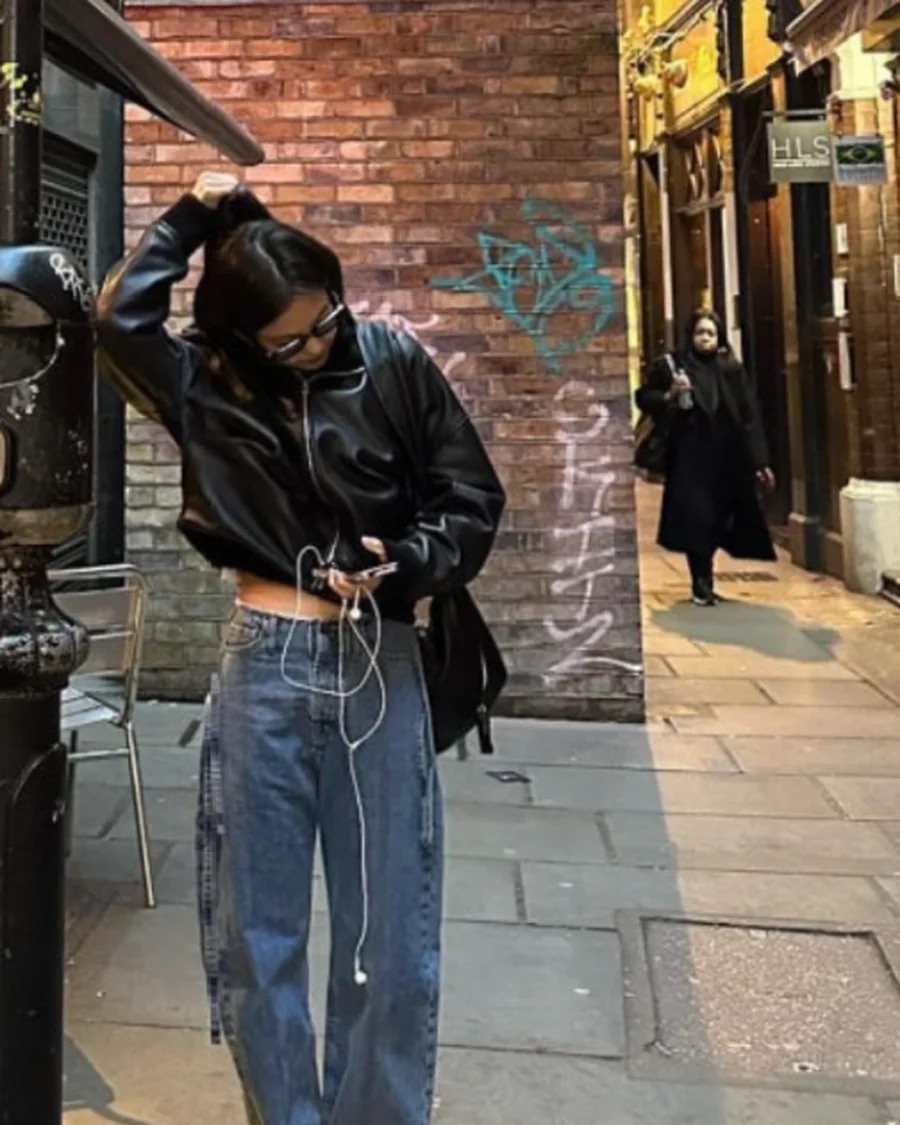
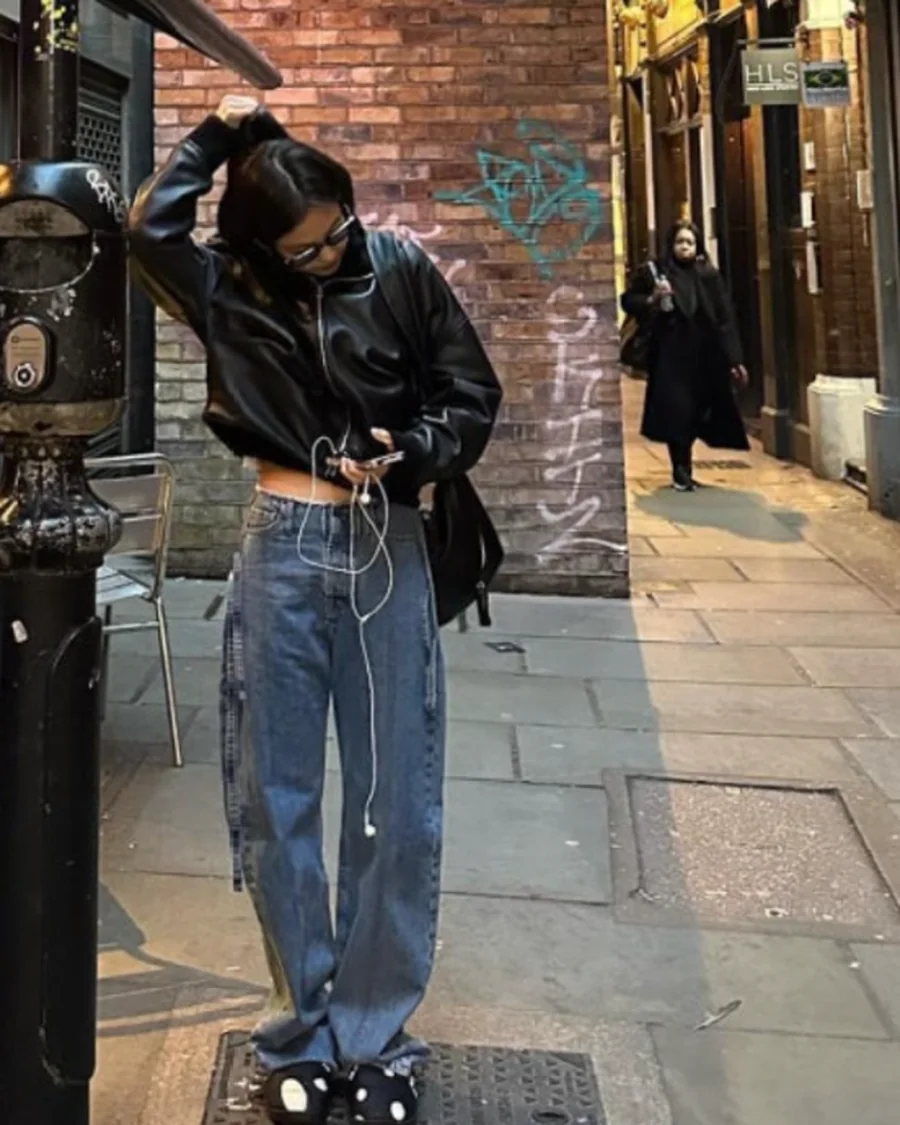
polish: 모바일 정렬·필터 여백 정리, 제니 이미지 크롭(신발 포함) 보정

diff --git a/data/looks.js b/data/looks.js
@@ -10,8 +10,8 @@
 window.SFP_LOOKS = [
   {
     id: "jiwon-aloro-velvet",
-    image: "assets/looks/jiwon-aloro-velvet.webp?v=20261120e",
-    imageJpg: "assets/looks/jiwon-aloro-velvet.jpg?v=20261120e",
+    image: "assets/looks/jiwon-aloro-velvet.webp?v=20261120f",
+    imageJpg: "assets/looks/jiwon-aloro-velvet.jpg?v=20261120f",
     photo: {label: "PAP 매거진", kind: "photo", what: "공항 출국 현장 촬영", url: "https://www.pap-magazine.com/article/kim-ji-won-duvetica-airport-fashion-japan-fan-meeting"},
     imageAlt: "인천공항 출국길, 검정 벨벳 미드 다운 재킷에 화이트 니트와 블랙 쇼츠, 니삭스 차림으로 걷는 김지원",
     celeb: "김지원",
@@ -58,8 +58,8 @@ window.SFP_LOOKS = [
   },
   {
     id: "jiwon-teramo-backpack",
-    image: "assets/looks/jiwon-teramo-backpack.webp?v=20261120e",
-    imageJpg: "assets/looks/jiwon-teramo-backpack.jpg?v=20261120e",
+    image: "assets/looks/jiwon-teramo-backpack.webp?v=20261120f",
+    imageJpg: "assets/looks/jiwon-teramo-backpack.jpg?v=20261120f",
     photo: {label: "PAP 매거진", kind: "photo", what: "공항 출국 현장 촬영", url: "https://www.pap-magazine.com/article/kim-ji-won-duvetica-airport-fashion-japan-fan-meeting"},
     imageAlt: "인천공항 출국길, 검정 벨벳 패딩에 퀼팅 벨벳 백팩을 메고 걷는 김지원",
     celeb: "김지원",
@@ -105,8 +105,8 @@ window.SFP_LOOKS = [
   },
   {
     id: "jennie-subu-dot",
-    image: "assets/looks/jennie-subu-dot.webp?v=20261120e",
-    imageJpg: "assets/looks/jennie-subu-dot.jpg?v=20261120e",
+    image: "assets/looks/jennie-subu-dot.webp?v=20261120f",
+    imageJpg: "assets/looks/jennie-subu-dot.jpg?v=20261120f",
     photo: {label: "제니 인스타그램", kind: "photo", what: "인스타그램 공개 사진", url: "https://www.instagram.com/jennierubyjane/"},
     imageAlt: "런던 거리에서 레더 보머 재킷과 로즈 데님, 도트 패턴 수부 패딩 슬리퍼를 신은 제니",
     celeb: "제니",
@@ -153,8 +153,8 @@ window.SFP_LOOKS = [
   },
   {
     id: "wooyoung-tomboy-check",
-    image: "assets/looks/wooyoung-tomboy-check.webp?v=20261120e",
-    imageJpg: "assets/looks/wooyoung-tomboy-check.jpg?v=20261120e",
+    image: "assets/looks/wooyoung-tomboy-check.webp?v=20261120f",
+    imageJpg: "assets/looks/wooyoung-tomboy-check.jpg?v=20261120f",
     photo: {label: "디스패치", kind: "photo", what: "공항 출국 현장 촬영", url: "https://www.dispatch.co.kr/2342671"},
     imageAlt: "김포공항 출국길, 핑크 체크 셔츠에 데님과 레드 캡, 마스크 차림의 우영",
     celeb: "우영",
@@ -201,8 +201,8 @@ window.SFP_LOOKS = [
   },
   {
     id: "yoonseok-kume-knit",
-    image: "assets/looks/yoonseok-kume-knit.webp?v=20261120e",
-    imageJpg: "assets/looks/yoonseok-kume-knit.jpg?v=20261120e",
+    image: "assets/looks/yoonseok-kume-knit.webp?v=20261120f",
+    imageJpg: "assets/looks/yoonseok-kume-knit.jpg?v=20261120f",
     photo: {label: "SBS 틈만나면", kind: "photo", what: "64회 방송 화면", url: "https://programs.sbs.co.kr/enter/teum/vod/82255/22000639190"},
     imageAlt: "틈만나면, 시즌5 64회, 멜란지 그레이 컬러블록 넥라인 니트를 입고 이야기하는 유연석",
     celeb: "유연석",
@@ -247,8 +247,8 @@ window.SFP_LOOKS = [
   },
   {
     id: "seungho-diesel-biker",
-    image: "assets/looks/seungho-diesel-biker.webp?v=20261120e",
-    imageJpg: "assets/looks/seungho-diesel-biker.jpg?v=20261120e",
+    image: "assets/looks/seungho-diesel-biker.webp?v=20261120f",
+    imageJpg: "assets/looks/seungho-diesel-biker.jpg?v=20261120f",
     photo: {label: "SBS 틈만나면", kind: "photo", what: "62회 방송 화면", url: "https://programs.sbs.co.kr/enter/teum/clip/82063/OC482566177"},
     imageAlt: "틈만나면, 시즌5 62회, 베이지와 그린 컬러블록 레더 재킷을 입고 웃는 신승호",
     celeb: "신승호",
@@ -294,8 +294,8 @@ window.SFP_LOOKS = [
   },
   {
     id: "doyeon-atelier-yak",
-    image: "assets/looks/doyeon-atelier-yak.webp?v=20261120e",
-    imageJpg: "assets/looks/doyeon-atelier-yak.jpg?v=20261120e",
+    image: "assets/looks/doyeon-atelier-yak.webp?v=20261120f",
+    imageJpg: "assets/looks/doyeon-atelier-yak.jpg?v=20261120f",
     photo: {label: "아틀리에 나인 룩북", kind: "product", what: "브랜드 공식 룩북", url: "https://nain.co.kr/"},
     imageAlt: "올리브 컬러 야크 블렌드 머플러 니트를 입은 아틀리에 나인 공식 룩북 컷",
     celeb: "장도연",
@@ -342,8 +342,8 @@ window.SFP_LOOKS = [
   },
   {
     id: "yeeun-mahagrid-zip",
-    image: "assets/looks/yeeun-mahagrid-zip.webp?v=20261120e",
-    imageJpg: "assets/looks/yeeun-mahagrid-zip.jpg?v=20261120e",
+    image: "assets/looks/yeeun-mahagrid-zip.webp?v=20261120f",
+    imageJpg: "assets/looks/yeeun-mahagrid-zip.jpg?v=20261120f",
     photo: {label: "SBS 런닝맨", kind: "photo", what: "825회 방송 화면", url: "https://programs.sbs.co.kr/enter/runningman"},
     imageAlt: "런닝맨 825회, 흰 스티치 디테일의 그레이 크롭 니트 집업을 입고 웃는 지예은",
     celeb: "지예은",
@@ -390,8 +390,8 @@ window.SFP_LOOKS = [
   },
   {
     id: "sechan-wakei-pants",
-    image: "assets/looks/sechan-wakei-pants.webp?v=20261120e",
-    imageJpg: "assets/looks/sechan-wakei-pants.jpg?v=20261120e",
+    image: "assets/looks/sechan-wakei-pants.webp?v=20261120f",
+    imageJpg: "assets/looks/sechan-wakei-pants.jpg?v=20261120f",
     photo: {label: "와이케이 공식", kind: "product", what: "브랜드 제품 컷", url: "https://www.musinsa.com/search/musinsa/integration?q=%EC%99%80%EC%9D%B4%EC%BC%80%EC%9D%B4%20%EC%8A%A4%EC%BF%BC%ED%8A%B8%ED%8C%AC%EC%B8%A0"},
     imageAlt: "네이비 바탕에 흰 별 자수가 들어간 와이케이 체크 스타 자수 스웨트팬츠 제품 컷",
     celeb: "양세찬",
@@ -436,8 +436,8 @@ window.SFP_LOOKS = [
   },
   {
     id: "haha-adidas-hyperboost",
-    image: "assets/looks/haha-adidas-hyperboost.webp?v=20261120e",
-    imageJpg: "assets/looks/haha-adidas-hyperboost.jpg?v=20261120e",
+    image: "assets/looks/haha-adidas-hyperboost.webp?v=20261120f",
+    imageJpg: "assets/looks/haha-adidas-hyperboost.jpg?v=20261120f",
     photo: {label: "아디다스 공식", kind: "product", what: "브랜드 제품 컷", url: "https://www.adidas.co.kr/%ED%95%98%EC%9D%B4%ED%8D%BC%EB%B6%80%EC%8A%A4%ED%8A%B8-ephr-lt/KZ8509.html"},
     imageAlt: "검정 니트 어퍼에 흰 삼선이 들어간 아디다스 하이퍼부스트 EPHR LT 제품 컷",
     celeb: "하하",

diff --git a/index.html b/index.html
@@ -25,8 +25,8 @@
 <link rel="icon" href="assets/favicon.svg" type="image/svg+xml">
 <link rel="preconnect" href="https://cdn.jsdelivr.net" crossorigin>
 <link rel="stylesheet" href="https://cdn.jsdelivr.net/gh/orioncactus/pretendard@v1.3.9/dist/web/variable/pretendardvariable-dynamic-subset.min.css">
-<link rel="stylesheet" href="style.css?v=20261120e">
-<link rel="preload" as="image" href="assets/looks/jiwon-aloro-velvet.webp?v=20261120e" type="image/webp">
+<link rel="stylesheet" href="style.css?v=20261120f">
+<link rel="preload" as="image" href="assets/looks/jiwon-aloro-velvet.webp?v=20261120f" type="image/webp">
 <script type="application/ld+json">
 {"@context":"https://schema.org","@graph":[
 {"@type":"WebSite","@id":"https://jinyou1129-bit.github.io/star-fit-pick/#website","url":"https://jinyou1129-bit.github.io/star-fit-pick/","name":"스타핏픽","inLanguage":"ko-KR","description":"연예인 착장 사진과 브랜드·가격 좌표, 가성비 대안 비교","potentialAction":{"@type":"SearchAction","target":"https://jinyou1129-bit.github.io/star-fit-pick/?q={search_term_string}","query-input":"required name=search_term_string"}},
@@ -81,15 +81,15 @@
       <div class="hero-visual" aria-hidden="true">
         <figure class="hv hv-a">
           <picture>
-            <source srcset="assets/looks/jiwon-aloro-velvet.webp?v=20261120e" type="image/webp">
-            <img src="assets/looks/jiwon-aloro-velvet.jpg?v=20261120e" alt="" width="900" height="1125" loading="eager" fetchpriority="high" decoding="async">
+            <source srcset="assets/looks/jiwon-aloro-velvet.webp?v=20261120f" type="image/webp">
+            <img src="assets/looks/jiwon-aloro-velvet.jpg?v=20261120f" alt="" width="900" height="1125" loading="eager" fetchpriority="high" decoding="async">
           </picture>
           <figcaption>LOOK 01 · 김지원 · PAP 매거진</figcaption>
         </figure>
         <figure class="hv hv-b">
           <picture>
-            <source srcset="assets/looks/jennie-subu-dot.webp?v=20261120e" type="image/webp">
-            <img src="assets/looks/jennie-subu-dot.jpg?v=20261120e" alt="" width="900" height="1125" loading="eager" decoding="async">
+            <source srcset="assets/looks/jennie-subu-dot.webp?v=20261120f" type="image/webp">
+            <img src="assets/looks/jennie-subu-dot.jpg?v=20261120f" alt="" width="900" height="1125" loading="eager" decoding="async">
           </picture>
           <figcaption>LOOK 03 · 제니 · 인스타그램</figcaption>
         </figure>
@@ -378,8 +378,8 @@
 
 <noscript><p class="noscript">이 사이트의 필터·찜하기·무드 테스트는 JavaScript로 동작합니다. 브라우저에서 JavaScript를 켜 주세요.</p></noscript>
 
-<script src="data/config.js?v=20261120e"></script>
-<script src="data/looks.js?v=20261120e"></script>
-<script src="app.js?v=20261120e" defer></script>
+<script src="data/config.js?v=20261120f"></script>
+<script src="data/looks.js?v=20261120f"></script>
+<script src="app.js?v=20261120f" defer></script>
 </body>
 </html>

diff --git a/style.css b/style.css
@@ -51,7 +51,7 @@ ul,ol{padding:0;list-style:none}
 
 /* ---------------- ticker ---------------- */
 .ticker{
-  background:var(--ink);color:#fff;font-size:12.5px;letter-spacing:.01em;
+  background:var(--ink);color:#fff;font-size:11.5px;letter-spacing:.01em;
   padding:9px 0;text-align:center;overflow:hidden;white-space:nowrap;
 }
 .ticker b{color:#fff;font-weight:700;margin-right:10px}
@@ -547,8 +547,12 @@ ul,ol{padding:0;list-style:none}
     border:1px solid var(--line);border-radius:12px;background:var(--soft-2);font-size:13px;
     font-weight:700;color:var(--sub);
   }
-  .filter-toggles{gap:14px}
+  .filter-toggles{gap:14px;flex-direction:column;align-items:flex-start}
   .reset-btn{margin-left:0}
+  .section-head{flex-direction:column;align-items:flex-start;gap:12px}
+  .sort-wrap{width:100%;justify-content:flex-end;white-space:nowrap}
+  .alt-line{flex-wrap:wrap;row-gap:2px}
+  .filter-search input{font-size:14px;padding-right:40px}
   .result-looks{grid-template-columns:1fr}
   .closet-teaser-inner{flex-direction:column;align-items:flex-start;padding:28px 22px}
   .foot-grid{grid-template-columns:1fr 1fr;gap:26px}

diff --git a/guide-winter-padding.html b/guide-winter-padding.html
@@ -19,7 +19,7 @@
 <link rel="icon" href="assets/favicon.svg" type="image/svg+xml">
 <link rel="preconnect" href="https://cdn.jsdelivr.net" crossorigin>
 <link rel="stylesheet" href="https://cdn.jsdelivr.net/gh/orioncactus/pretendard@v1.3.9/dist/web/variable/pretendardvariable-dynamic-subset.min.css">
-<link rel="stylesheet" href="style.css?v=20261120e">
+<link rel="stylesheet" href="style.css?v=20261120f">
 <script type="application/ld+json">
 {"@context":"https://schema.org","@type":"Article","headline":"겨울 숏패딩·벨벳 패딩 체형별로 고르는 법","description":"기장과 충전재, 겉감 광택이 실루엣을 어떻게 바꾸는지 정리했습니다. 김지원 공항패딩 같은 미드 다운을 기준으로 체형별 선택법을 비교합니다.","datePublished":"2026-11-20","dateModified":"2026-11-20","inLanguage":"ko-KR","author":{"@type":"Organization","name":"스타핏픽"},"publisher":{"@type":"Organization","name":"스타핏픽"},"mainEntityOfPage":{"@type":"WebPage","@id":"https://jinyou1129-bit.github.io/star-fit-pick/guide-winter-padding.html"}}
 </script>

diff --git a/guide-airport-layering.html b/guide-airport-layering.html
@@ -19,7 +19,7 @@
 <link rel="icon" href="assets/favicon.svg" type="image/svg+xml">
 <link rel="preconnect" href="https://cdn.jsdelivr.net" crossorigin>
 <link rel="stylesheet" href="https://cdn.jsdelivr.net/gh/orioncactus/pretendard@v1.3.9/dist/web/variable/pretendardvariable-dynamic-subset.min.css">
-<link rel="stylesheet" href="style.css?v=20261120e">
+<link rel="stylesheet" href="style.css?v=20261120f">
 <script type="application/ld+json">
 {"@context":"https://schema.org","@type":"Article","headline":"10만 원대로 따라 입는 공항패션 레이어드 공식","description":"김지원 공항룩의 구조를 뜯어보고, 같은 인상을 10만 원대 아이템으로 재구성하는 순서를 정리했습니다.","datePublished":"2026-11-20","dateModified":"2026-11-20","inLanguage":"ko-KR","author":{"@type":"Organization","name":"스타핏픽"},"publisher":{"@type":"Organization","name":"스타핏픽"},"mainEntityOfPage":{"@type":"WebPage","@id":"https://jinyou1129-bit.github.io/star-fit-pick/guide-airport-layering.html"}}
 </script>

diff --git a/guide-variety-casual.html b/guide-variety-casual.html
@@ -19,7 +19,7 @@
 <link rel="icon" href="assets/favicon.svg" type="image/svg+xml">
 <link rel="preconnect" href="https://cdn.jsdelivr.net" crossorigin>
 <link rel="stylesheet" href="https://cdn.jsdelivr.net/gh/orioncactus/pretendard@v1.3.9/dist/web/variable/pretendardvariable-dynamic-subset.min.css">
-<link rel="stylesheet" href="style.css?v=20261120e">
+<link rel="stylesheet" href="style.css?v=20261120f">
 <script type="application/ld+json">
 {"@context":"https://schema.org","@type":"Article","headline":"예능 캐주얼, 스웨트팬츠와 러닝화 데일리 매치 가이드","description":"크롭 니트 집업, 스웨트팬츠, 쿠셔닝 러닝화를 일상복으로 정리하는 비율 공식을 정리했습니다.","datePublished":"2026-11-20","dateModified":"2026-11-20","inLanguage":"ko-KR","author":{"@type":"Organization","name":"스타핏픽"},"publisher":{"@type":"Organization","name":"스타핏픽"},"mainEntityOfPage":{"@type":"WebPage","@id":"https://jinyou1129-bit.github.io/star-fit-pick/guide-variety-casual.html"}}
 </script>

diff --git a/guide-knit-care.html b/guide-knit-care.html
@@ -19,7 +19,7 @@
 <link rel="icon" href="assets/favicon.svg" type="image/svg+xml">
 <link rel="preconnect" href="https://cdn.jsdelivr.net" crossorigin>
 <link rel="stylesheet" href="https://cdn.jsdelivr.net/gh/orioncactus/pretendard@v1.3.9/dist/web/variable/pretendardvariable-dynamic-subset.min.css">
-<link rel="stylesheet" href="style.css?v=20261120e">
+<link rel="stylesheet" href="style.css?v=20261120f">
 <script type="application/ld+json">
 {"@context":"https://schema.org","@type":"Article","headline":"캐시미어·야크 울 니트, 보풀 없이 오래 입는 관리법","description":"비싼 니트가 두 번째 겨울에 망가지는 이유와, 세탁·건조·보관 순서를 정리했습니다.","datePublished":"2026-11-20","dateModified":"2026-11-20","inLanguage":"ko-KR","author":{"@type":"Organization","name":"스타핏픽"},"publisher":{"@type":"Organization","name":"스타핏픽"},"mainEntityOfPage":{"@type":"WebPage","@id":"https://jinyou1129-bit.github.io/star-fit-pick/guide-knit-care.html"}}
 </script>

diff --git a/guide-luxury-vs-value.html b/guide-luxury-vs-value.html
@@ -19,7 +19,7 @@
 <link rel="icon" href="assets/favicon.svg" type="image/svg+xml">
 <link rel="preconnect" href="https://cdn.jsdelivr.net" crossorigin>
 <link rel="stylesheet" href="https://cdn.jsdelivr.net/gh/orioncactus/pretendard@v1.3.9/dist/web/variable/pretendardvariable-dynamic-subset.min.css">
-<link rel="stylesheet" href="style.css?v=20261120e">
+<link rel="stylesheet" href="style.css?v=20261120f">
 <script type="application/ld+json">
 {"@context":"https://schema.org","@type":"Article","headline":"명품 vs 가성비 브랜드, 소재와 핏은 얼마나 다를까","description":"가격 차이가 실제로 어디에서 오는지, 소재·봉제·핏 세 가지로 나눠 비교했습니다.","datePublished":"2026-11-20","dateModified":"2026-11-20","inLanguage":"ko-KR","author":{"@type":"Organization","name":"스타핏픽"},"publisher":{"@type":"Organization","name":"스타핏픽"},"mainEntityOfPage":{"@type":"WebPage","@id":"https://jinyou1129-bit.github.io/star-fit-pick/guide-luxury-vs-value.html"}}
 </script>

diff --git a/guide-fit-by-body.html b/guide-fit-by-body.html
@@ -19,7 +19,7 @@
 <link rel="icon" href="assets/favicon.svg" type="image/svg+xml">
 <link rel="preconnect" href="https://cdn.jsdelivr.net" crossorigin>
 <link rel="stylesheet" href="https://cdn.jsdelivr.net/gh/orioncactus/pretendard@v1.3.9/dist/web/variable/pretendardvariable-dynamic-subset.min.css">
-<link rel="stylesheet" href="style.css?v=20261120e">
+<link rel="stylesheet" href="style.css?v=20261120f">
 <script type="application/ld+json">
 {"@context":"https://schema.org","@type":"Article","headline":"키·체형별로 기장 잡는 법: 코트·패딩·니트","description":"같은 옷도 기장에 따라 다르게 보입니다. 키와 체형별 기준선을 숫자로 정리했습니다.","datePublished":"2026-11-20","dateModified":"2026-11-20","inLanguage":"ko-KR","author":{"@type":"Organization","name":"스타핏픽"},"publisher":{"@type":"Organization","name":"스타핏픽"},"mainEntityOfPage":{"@type":"WebPage","@id":"https://jinyou1129-bit.github.io/star-fit-pick/guide-fit-by-body.html"}}
 </script>

diff --git a/guides.html b/guides.html
@@ -19,7 +19,7 @@
 <link rel="icon" href="assets/favicon.svg" type="image/svg+xml">
 <link rel="preconnect" href="https://cdn.jsdelivr.net" crossorigin>
 <link rel="stylesheet" href="https://cdn.jsdelivr.net/gh/orioncactus/pretendard@v1.3.9/dist/web/variable/pretendardvariable-dynamic-subset.min.css">
-<link rel="stylesheet" href="style.css?v=20261120e">
+<link rel="stylesheet" href="style.css?v=20261120f">
 <script type="application/ld+json">
 {"@context":"https://schema.org","@type":"CollectionPage","name":"패션 가이드 6편","url":"https://jinyou1129-bit.github.io/star-fit-pick/guides.html","inLanguage":"ko-KR","description":"연예인 착장을 기준으로 패딩·레이어드·니트 관리·캐주얼 매치·명품 비교·기장 잡기까지 6편의 실전 패션 가이드를 모았습니다."}
 </script>

diff --git a/404.html b/404.html
@@ -19,7 +19,7 @@
 <link rel="icon" href="assets/favicon.svg" type="image/svg+xml">
 <link rel="preconnect" href="https://cdn.jsdelivr.net" crossorigin>
 <link rel="stylesheet" href="https://cdn.jsdelivr.net/gh/orioncactus/pretendard@v1.3.9/dist/web/variable/pretendardvariable-dynamic-subset.min.css">
-<link rel="stylesheet" href="style.css?v=20261120e">
+<link rel="stylesheet" href="style.css?v=20261120f">
 </head>
 <body>
 <a class="skip" href="#main">본문으로 바로가기</a>

diff --git a/about.html b/about.html
@@ -19,7 +19,7 @@
 <link rel="icon" href="assets/favicon.svg" type="image/svg+xml">
 <link rel="preconnect" href="https://cdn.jsdelivr.net" crossorigin>
 <link rel="stylesheet" href="https://cdn.jsdelivr.net/gh/orioncactus/pretendard@v1.3.9/dist/web/variable/pretendardvariable-dynamic-subset.min.css">
-<link rel="stylesheet" href="style.css?v=20261120e">
+<link rel="stylesheet" href="style.css?v=20261120f">
 </head>
 <body>
 <a class="skip" href="#main">본문으로 바로가기</a>
